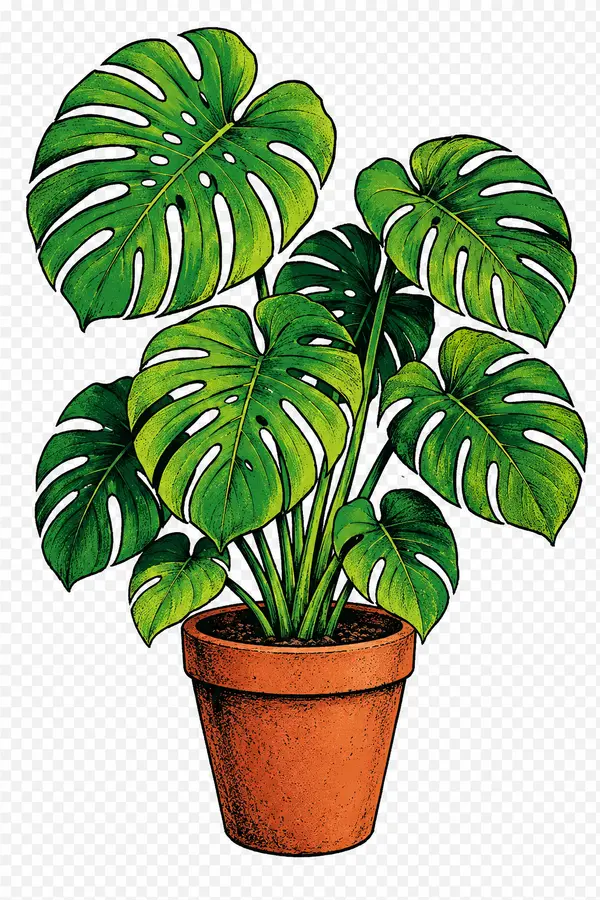
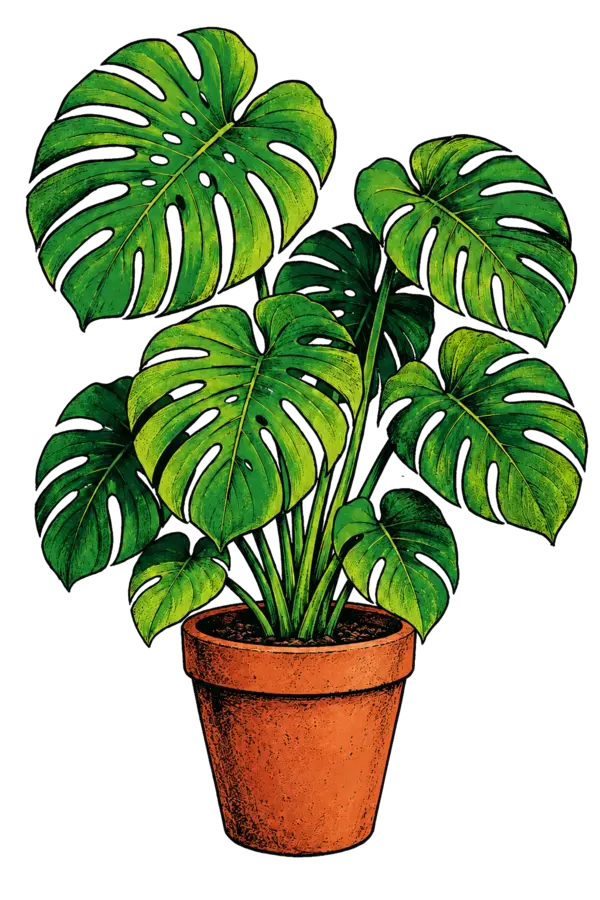
Add stable plant artwork and compact responsive hero

Changed region(s): [[0.03, 0.0311, 0.99, 0.9644], [0.6, 0.8711, 0.63, 0.9333], [0.54, 0.28, 0.57, 0.3111]]

diff --git a/app/page.tsx b/app/page.tsx
@@ -37,6 +37,14 @@ function plantMatch(a: Answers) {
   return plants.pothos;
 }
 
+function plantArtworkClass(plantType: string) {
+  const normalized = plantType.toLowerCase();
+  if (normalized.includes("sansevieria")) return "plant-0";
+  if (normalized.includes("peperomia")) return "plant-1";
+  if (normalized.includes("pothos")) return "plant-2";
+  return "plant-3";
+}
+
 function timeAgo(value: string) {
   const minutes = Math.max(0, Math.floor((Date.now() - new Date(value).getTime()) / 60000));
   if (minutes < 1) return "Ahora mismo";
@@ -143,7 +151,7 @@ export default function Home() {
   return (
     <main>
       <header className="site-header">
-        <a className="brand" href="#inicio" aria-label="PlantMatch, inicio"><span>🌱</span> PlantMatch</a>
+        <a className="brand" href="#inicio" aria-label="PlantMatch, inicio"><span className="logo-mark" aria-hidden="true"><i/><i/><i/></span><span className="brand-name">PlantMatch</span></a>
         <nav aria-label="Navegación principal">
           <a href="#como-funciona">Cómo funciona</a>
           <a href="#test">Plantas</a>
@@ -165,7 +173,7 @@ export default function Home() {
           <div className="poster-caption"><strong>MONSTERA</strong><span>Curiosa · Creativa · Independiente</span></div>
           <span className="adopt-stamp">ADOPTA<br/>DIGITALMENTE</span>
         </div></div>
-        <div className="hero-recent"><div className="hero-recent-title"><strong>Adopciones recientes</strong><span>Actualizado en vivo</span></div><div className="hero-adoption-grid">{adoptions.slice(0,3).map((item,index)=><article key={`hero-${item.id}`}><div className={`mini-plant plant-${index%4}`} aria-hidden="true"/><div><strong>{item.adopter_name} adoptó a {item.plant_name}</strong><span>{item.plant_type}</span><time>{timeAgo(item.created_at)} · {localDateTime(item.created_at)}</time></div></article>)}</div></div>
+        <div className="hero-recent"><div className="hero-recent-title"><strong>Adopciones recientes</strong><span>Actualizado en vivo</span></div><div className="hero-adoption-grid">{adoptions.slice(0,3).map((item)=><article key={`hero-${item.id}`}><div className={`mini-plant ${plantArtworkClass(item.plant_type)}`} aria-hidden="true"/><div><strong>{item.adopter_name} adoptó a {item.plant_name}</strong><span>{item.plant_type}</span><time>{timeAgo(item.created_at)} · {localDateTime(item.created_at)}</time></div></article>)}</div></div>
       </section>
 
       <section className="how" id="como-funciona">
@@ -185,7 +193,7 @@ export default function Home() {
             <label className="select-label">¿Tienes mascotas?<select value={answers.pets} onChange={(e)=>setAnswers({...answers,pets:e.target.value as Answers['pets']})}><option value="no">No</option><option value="yes">Sí</option></select></label>
             <label className="select-label">Tu experiencia<select value={answers.experience} onChange={(e)=>setAnswers({...answers,experience:e.target.value as Answers['experience']})}><option value="new">Soy principiante</option><option value="some">Ya he tenido plantas</option><option value="expert">Tengo mano verde</option></select></label>
           </div>
-          <div className="result-card"><span className="result-icon">{match.icon}</span><div><small>TU MATCH ES</small><h3>{match.name}</h3><p>{match.traits}</p></div></div>
+          <div className="result-card"><div className={`result-plant mini-plant ${plantArtworkClass(match.name)}`} aria-hidden="true"/><div><small>TU MATCH ES</small><h3>{match.name}</h3><p>{match.traits}</p></div></div>
           <div className="name-fields">
             <label>Tu apodo público<input maxLength={24} value={adopterName} onChange={(e)=>setAdopterName(e.target.value)} placeholder="Ej. Luna" required/></label>
             <label>Nombre de tu planta<input maxLength={24} value={plantName} onChange={(e)=>setPlantName(e.target.value)} placeholder="Ej. Menta" required/></label>
@@ -199,7 +207,7 @@ export default function Home() {
       <section className="community" id="comunidad">
         <div className="community-title"><div><span>EN VIVO</span><h2>Adopciones recientes</h2></div><p>Una pequeña comunidad que no deja de crecer.</p></div>
         <div className="timeline">
-          {adoptions.map((item, index) => <article className="adoption" key={item.id}><div className={`plant-avatar mini-plant plant-${index%4}`} aria-hidden="true"/><div><strong>{item.adopter_name} adoptó a {item.plant_name}</strong><span>{item.plant_type}</span><time dateTime={item.created_at}>{timeAgo(item.created_at)} · {localDateTime(item.created_at)} (hora local)</time></div><b className="timeline-number">{String(index + 1).padStart(2,"0")}</b></article>)}
+          {adoptions.map((item, index) => <article className="adoption" key={item.id}><div className={`plant-avatar mini-plant ${plantArtworkClass(item.plant_type)}`} aria-hidden="true"/><div><strong>{item.adopter_name} adoptó a {item.plant_name}</strong><span>{item.plant_type}</span><time dateTime={item.created_at}>{timeAgo(item.created_at)} · {localDateTime(item.created_at)} (hora local)</time></div><b className="timeline-number">{String(index + 1).padStart(2,"0")}</b></article>)}
         </div>
       </section>
       <footer><strong>PlantMatch</strong><span>Un proyecto ficticio sobre plantas reales.</span></footer>

diff --git a/app/globals.css b/app/globals.css
@@ -13,3 +13,9 @@
 @media(max-width:1100px){.site-header{padding-inline:28px}.hero{padding-inline:28px;gap:38px}.hero-wrap{padding-bottom:36px}.hero-recent{margin-inline:28px}.hero-adoption-grid article{grid-template-columns:52px minmax(0,1fr)}.hero-adoption-grid .mini-plant{width:52px;height:54px}.hero-adoption-grid strong{font-size:13px}.match-sticker{left:-18px}.easy-sticker{right:-14px}.adopt-stamp{right:-18px}}
 @media(max-width:850px){h1{font-size:clamp(54px,15vw,76px);line-height:.88}.hero-wrap .hero{padding-bottom:38px;min-height:0}.hero-copy{text-align:left}.plant-poster{min-height:410px;margin:8px 18px 0}.hero-plant{width:min(82%,410px);max-height:335px}.poster-caption{padding:15px 20px}.poster-caption strong{font-size:30px}.match-sticker{top:-28px;left:-16px;font-size:12px;padding:12px}.easy-sticker{top:-22px;right:-12px;font-size:12px;padding:12px}.adopt-stamp{right:-14px;bottom:50px;font-size:11px;padding:13px}.hero-recent{margin-inline:20px}.hero-recent-title strong{font-size:20px}.hero-adoption-grid{display:flex;overflow-x:auto;scroll-snap-type:x mandatory;padding:0 7px 10px 0;gap:14px}.hero-adoption-grid article{flex:0 0 min(82vw,340px);scroll-snap-align:start}.test-section{overflow:hidden}.option-row span{min-height:52px;display:grid;place-items:center}.result-card{transform:none}.community-title h2{overflow-wrap:anywhere}.timeline:before{left:35px}.adoption{grid-template-columns:62px minmax(0,1fr);gap:14px}.plant-avatar.mini-plant{width:62px;height:62px}.adoption time{line-height:1.35}}
 @media(max-width:480px){.site-header{padding-inline:16px}.brand{font-size:22px}.brand span{font-size:25px}.hero{padding:38px 16px 58px}.eyebrow{font-size:12px}.hero-text{font-size:18px}.primary-button{padding:16px;font-size:17px;box-shadow:7px 7px 0 var(--ink)}.primary-button b{font-size:28px}.plant-poster{min-height:350px;margin-inline:12px}.hero-plant{max-height:275px}.poster-caption span{font-size:12px}.hero-recent{margin-inline:16px}.hero-recent-title{align-items:flex-start;gap:10px}.hero-recent-title span{font-size:9px}.match-form{padding:18px}.section-heading h2,.community-title h2{font-size:38px}.result-card{padding:18px;gap:12px}.result-icon{font-size:52px}.result-card h3{font-size:30px}.submit-button{font-size:18px;padding:17px}.community{padding-inline:16px}.adoption{padding:14px 11px;box-shadow:5px 5px 0 var(--ink)}.adoption strong{font-size:14px}.adoption time{font-size:11px}footer{padding-inline:16px}}
+
+/* Brand mark and compact above-the-fold composition */
+.brand{gap:10px}.brand-name{font:inherit}.logo-mark{width:48px;height:48px;border:3px solid var(--ink);border-radius:50% 50% 46% 46%;display:block;position:relative;background:var(--cream);box-shadow:4px 4px 0 var(--ink);overflow:hidden}.logo-mark:after{content:"";position:absolute;width:4px;height:27px;background:var(--ink);left:20px;bottom:7px;transform:rotate(-2deg)}.logo-mark i{position:absolute;display:block;width:20px;height:13px;background:var(--green);border:3px solid var(--ink);border-radius:90% 10% 90% 10%;z-index:1}.logo-mark i:nth-child(1){left:3px;top:10px;transform:rotate(24deg)}.logo-mark i:nth-child(2){right:2px;top:9px;transform:scaleX(-1) rotate(22deg)}.logo-mark i:nth-child(3){left:14px;top:1px;transform:rotate(45deg)}.result-plant{width:120px;height:105px;flex:0 0 120px}.result-card{min-height:145px}
+@media(min-width:1101px) and (min-height:760px){.site-header{height:82px}.hero-wrap{padding-bottom:24px}.hero-wrap .hero{min-height:0;height:570px;padding-top:36px;padding-bottom:26px}.hero-copy h1{font-size:clamp(68px,6.3vw,94px)}.hero-text{font-size:20px;margin-block:14px}.primary-button{padding-block:15px;font-size:20px;box-shadow:8px 8px 0 var(--ink)}.plant-poster{min-height:465px;height:465px}.hero-plant{max-height:385px;width:min(78%,440px)}.poster-caption{padding:14px 24px}.poster-caption strong{font-size:34px}.hero-recent{padding-top:12px}.hero-recent-title{margin-bottom:10px}.hero-recent-title strong{font-size:20px}.hero-adoption-grid article{padding-block:8px}.hero-adoption-grid .mini-plant{height:54px}.hero-wrap{min-height:calc(100vh - 82px)}}
+@media(max-width:850px){.logo-mark{width:38px;height:38px;box-shadow:3px 3px 0 var(--ink)}.logo-mark:after{left:16px;height:22px}.logo-mark i{width:16px;height:11px}.logo-mark i:nth-child(3){left:11px}.result-plant{width:92px;height:88px;flex-basis:92px}}
+@media(max-width:480px){.brand-name{font-size:21px!important}.logo-mark{width:35px;height:35px}.result-card{align-items:center}.result-plant{width:78px;height:76px;flex-basis:78px}}